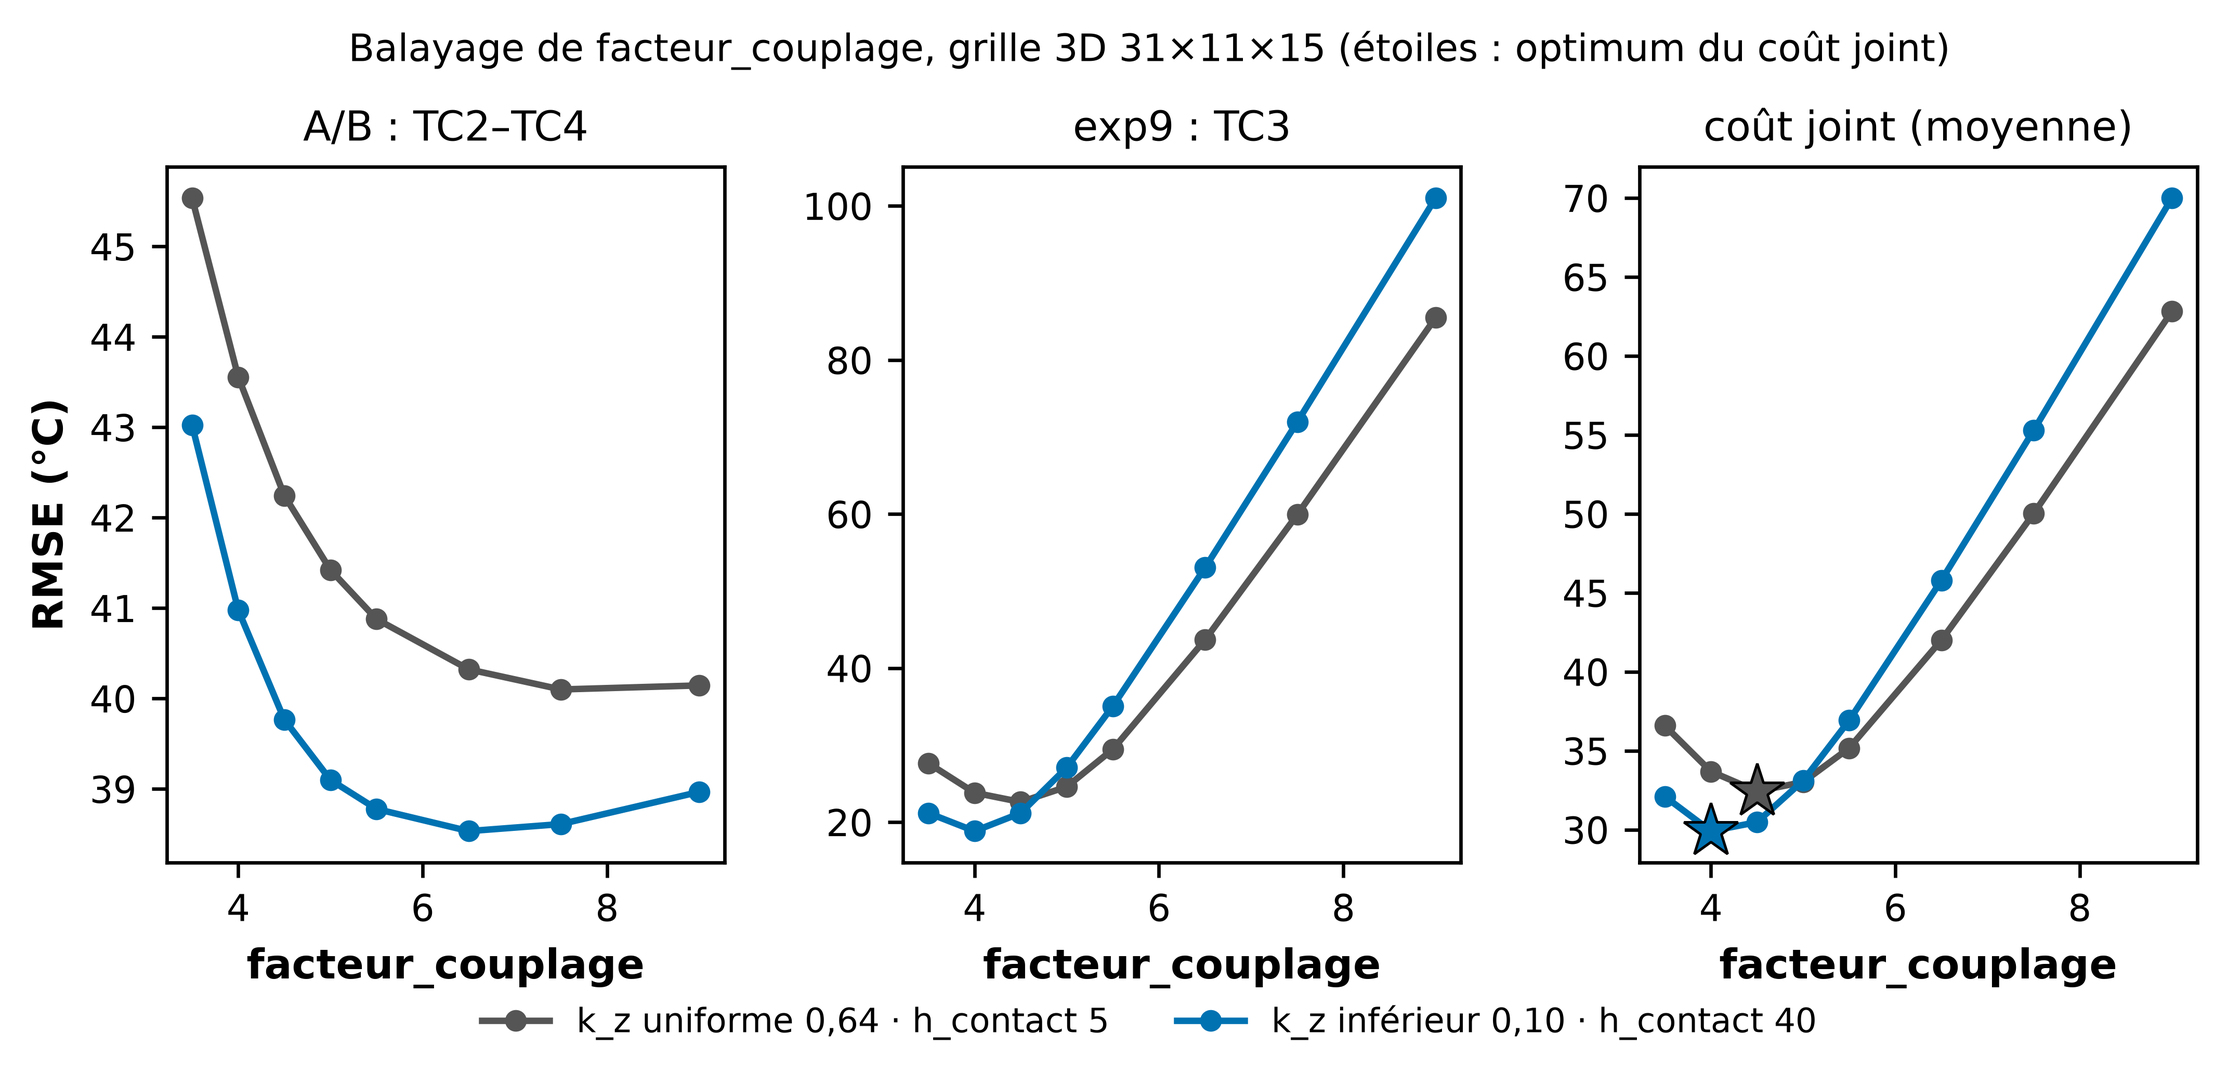
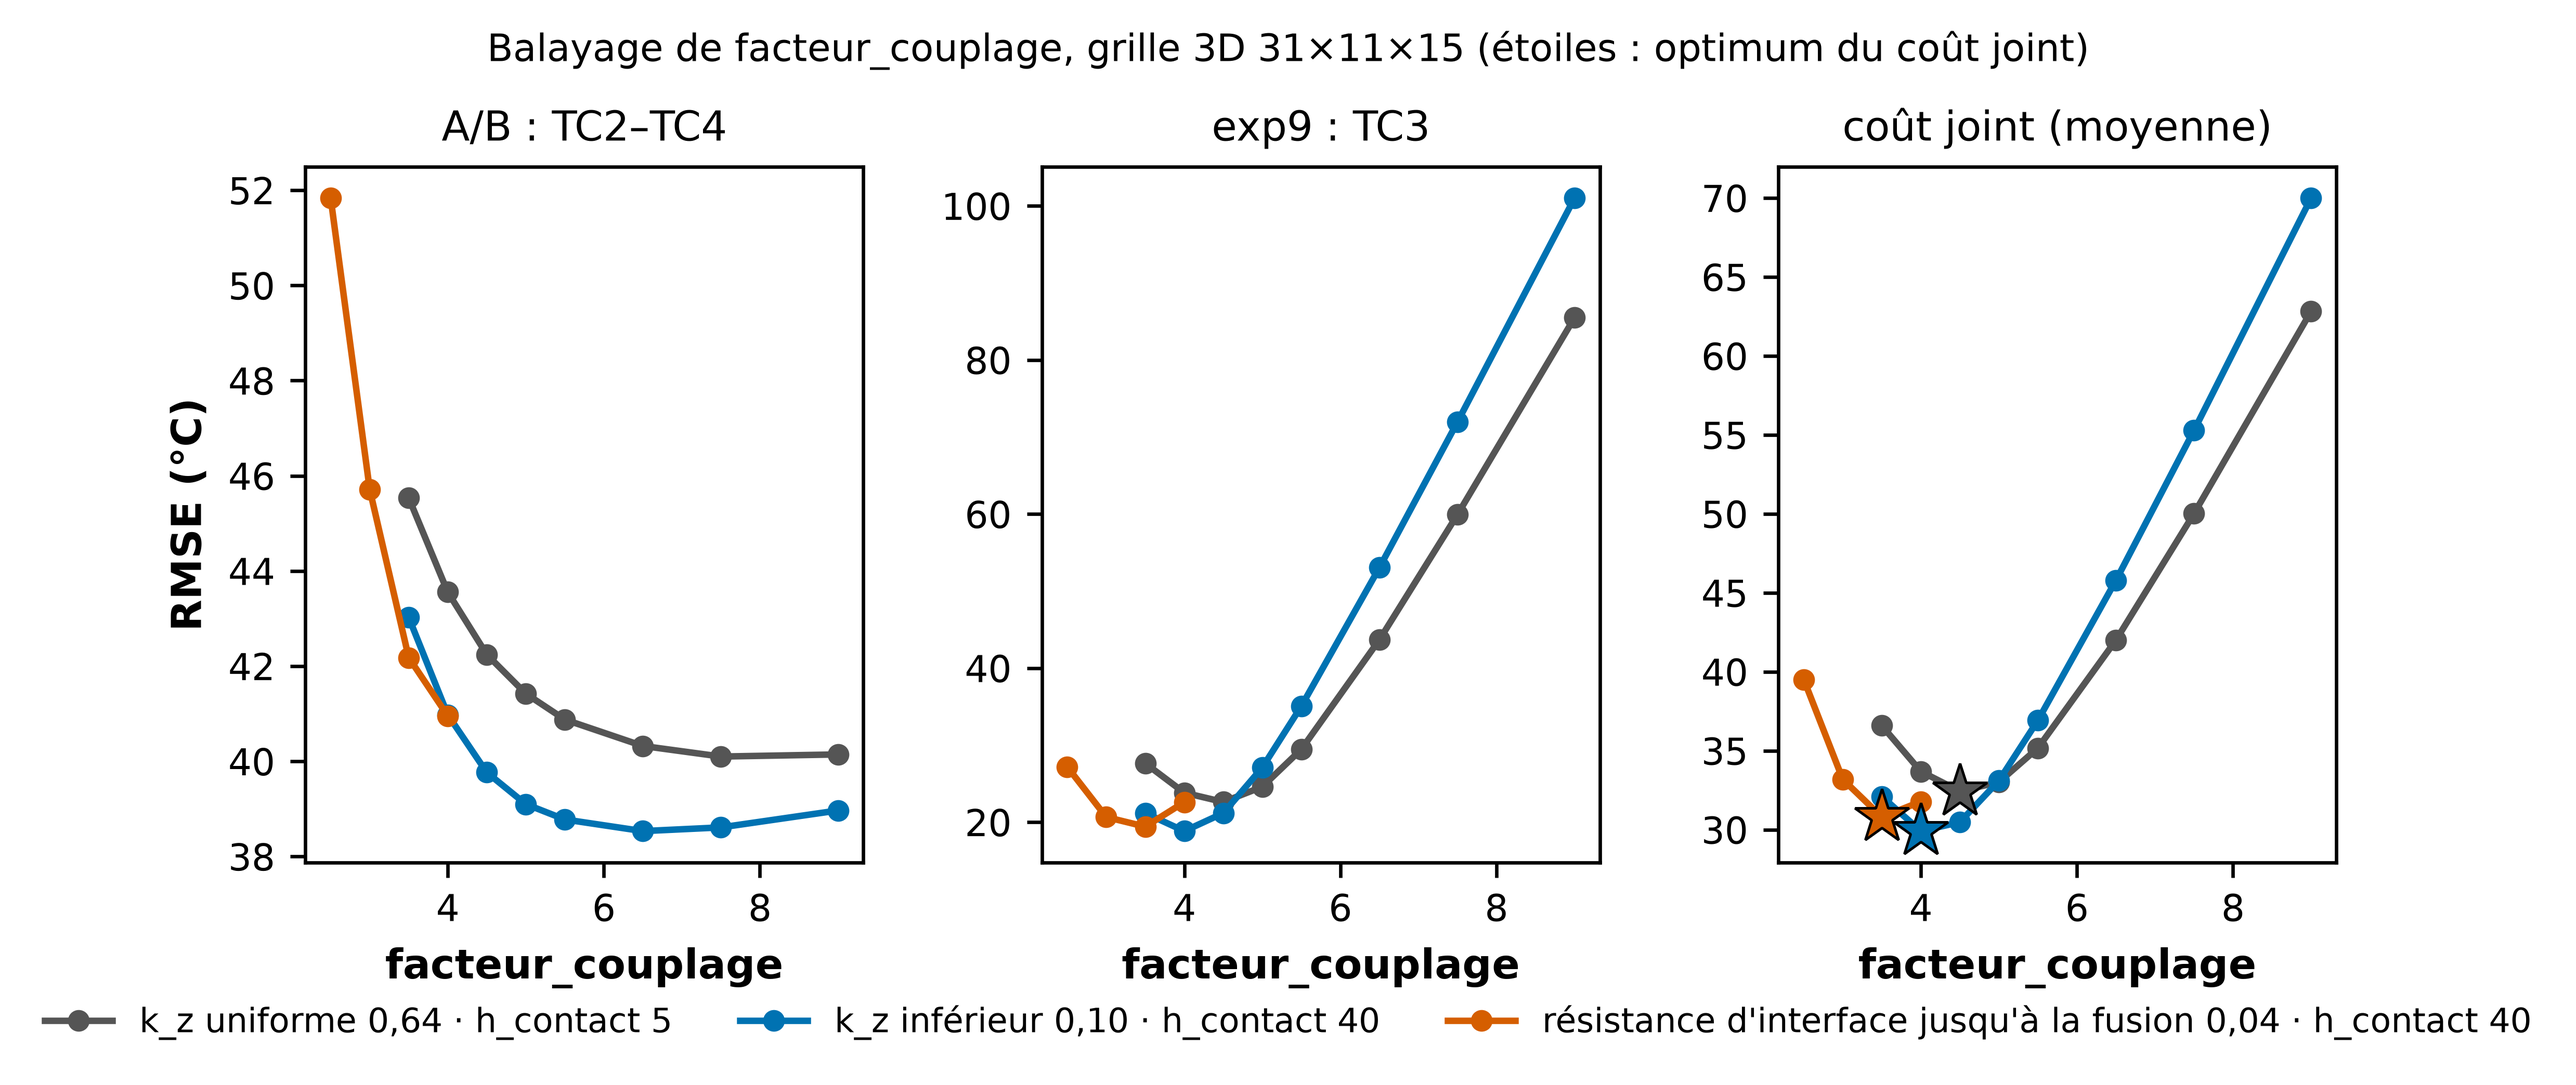
diag #74 : variantes d'epaisseur (resistance d'interface jusqu'a la fusion, Cp(T) Hamon), convergence, compromis

diff --git a/code/scripts/diag/variantes_epaisseur.py b/code/scripts/diag/variantes_epaisseur.py
@@ -1,0 +1,89 @@
+"""Issue #74 — variantes du transport thermique dans l'épaisseur, appliquées au
+3D SANS modifier jumeau/ : chaque fonction remplace une méthode de classe pour
+la durée du processus (diagnostic uniquement).
+
+- ``appliquer_kz_inf(kz_inf)``   : k_z réduit dans tout le laminé inférieur
+  (forme effective, testée le 2026-09-29/30) ;
+- ``appliquer_rc_fusion(R, dT)`` : résistance de contact À L'INTERFACE, active
+  tant que l'interface n'a pas fondu, nulle au-dessus de Tf (rampe linéaire sur
+  Tf ± dT). Forme physique visée : deux pièces séparées (film, contacts
+  imparfaits) qui ne deviennent un seul solide qu'à la fusion. À distinguer de
+  ``r_contact_interface`` (constante, NO-GO le 2026-08-13) ;
+- ``appliquer_cp_hamon()``       : ligne de base cp(T) mesurée (Hamon 2025 /
+  thèse Saffar 2019, cf. materiaux.yaml) à la place de cp_base constant ; le pic
+  de fusion gaussien est conservé.
+
+Toutes se combinent. Le masque « sous l'interface » et l'indice de la face
+d'interface viennent de la grille et de la config, comme dans le solveur.
+"""
+from __future__ import annotations
+
+import sys
+from pathlib import Path
+
+import numpy as np
+
+R = next(p for p in Path(__file__).resolve().parents if (p / ".git").exists())
+sys.path.insert(0, str(R / "code" / "src"))
+
+from jumeau.materiaux import Config, Materiau  # noqa: E402
+from jumeau.thermique import solveur3d as s3  # noqa: E402
+
+_LAM = Config.charger(R / "code" / "config").geometrie["laminate"]
+_EP_TOT = _LAM["epaisseur_sup"] + _LAM["epaisseur_film"] + _LAM["epaisseur_inf"]
+_Z_COUPE = _LAM["epaisseur_sup"] + _LAM["epaisseur_film"] / 2
+
+# Cp(T) mesuré, ligne de base sans pic de fusion (materiaux.yaml, Hamon 2025)
+CP_T = np.array([50, 100, 150, 200, 250, 300, 350, 400, 450], dtype=float)
+CP_V = 1000.0 * np.array([0.939, 1.090, 1.224, 1.341, 1.441, 1.524, 1.590, 1.639, 1.671])
+
+
+def appliquer_kz_inf(kz_inf: float) -> None:
+    def _k_z_field(self, T):
+        z = np.linspace(0.0, _EP_TOT, T.shape[-1])
+        return np.where((z > _Z_COUPE)[None, None, :], kz_inf, float(self.k_z)) * np.ones_like(T)
+
+    Materiau.a_k_variable = lambda self: True
+    Materiau.k_z_field = _k_z_field
+    Materiau.k_plan_field = lambda self, T: np.full_like(T, float(self.k_plan))
+
+
+def appliquer_cp_hamon() -> None:
+    def _cp_apparent(self, T):
+        sig_f = self.delta_T_fusion / 2.0
+        pic = (self.chaleur_latente / (sig_f * np.sqrt(2.0 * np.pi))) * np.exp(
+            -0.5 * ((T - self.T_fusion) / sig_f) ** 2)
+        return np.interp(T, CP_T, CP_V) + pic
+
+    Materiau.cp_apparent = _cp_apparent
+
+
+def appliquer_rc_fusion(r_c: float, largeur: float = 5.0) -> None:
+    """Ajoute, sur la face entre les nœuds iz_interface et iz_interface+1, la
+    correction de flux d'une résistance r_c (m²·K/W) en série, pondérée par
+    f = 1 sous Tf − largeur, 0 au-dessus de Tf + largeur (T = max des deux
+    nœuds de la face : l'interface fond dès que son côté chaud fond)."""
+    orig = s3.SolveurThermique3D._rhs
+
+    def _rhs(self, t, Tflat, source_fn):
+        out = orig(self, t, Tflat, source_fn)
+        g, mat = self.g, self.mat
+        T = Tflat.reshape(g.nx, g.ny, g.nz)
+        iz = g.iz_interface
+        Ta, Tb = T[:, :, iz], T[:, :, iz + 1]
+        f = np.clip((mat.T_fusion + largeur - np.maximum(Ta, Tb)) / (2.0 * largeur), 0.0, 1.0)
+        if mat.a_k_variable():
+            kzf = mat.k_z_field(T)
+            kface = 0.5 * (kzf[:, :, iz] + kzf[:, :, iz + 1])
+        else:
+            kface = float(mat.k_z)
+        g0 = kface / g.dz
+        gc = 1.0 / (g.dz / kface + r_c * f)
+        dflux = (gc - g0) * (Tb - Ta)                     # W/m²
+        rc = mat.densite * mat.cp_apparent(T)
+        o = out.reshape(g.nx, g.ny, g.nz).copy()
+        o[:, :, iz] += dflux / g.dz / rc[:, :, iz]
+        o[:, :, iz + 1] -= dflux / g.dz / rc[:, :, iz + 1]
+        return o.ravel()
+
+    s3.SolveurThermique3D._rhs = _rhs

diff --git a/code/scripts/diag/diag_epaisseur_3d_reference.py b/code/scripts/diag/diag_epaisseur_3d_reference.py
@@ -95,16 +95,25 @@ def main():
     ap.add_argument("--essais", nargs="+", default=ESSAIS)
     ap.add_argument("--alpha-inf", type=float, default=1.0,
                     help="facteur sur la source Joule SOUS l'interface (laminé inf) ; 1 = inchangé")
+    ap.add_argument("--rc-fusion", type=float, default=None,
+                    help="résistance d'interface (m².K/W) active sous Tf, nulle au-dessus")
+    ap.add_argument("--cp-hamon", action="store_true", help="cp(T) mesuré (Hamon 2025)")
     ap.add_argument("--kz-inf", type=float, default=None,
                     help="k_z du laminé inférieur (W/m.K) ; défaut = k_z uniforme")
     a = ap.parse_args()
+    import variantes_epaisseur as var
+    if a.rc_fusion is not None:
+        var.appliquer_rc_fusion(a.rc_fusion)
+    if a.cp_hamon:
+        var.appliquer_cp_hamon()
 
     lignes = []
     def log(s=""):
         print(s, flush=True); lignes.append(s)
 
     log(f"3D : facteur {a.facteur}, h_contact {a.h_contact}, h_bas {a.h_bas}, "
-        f"grille {a.nx}×{a.ny}×{a.nz}, alpha_inf {a.alpha_inf}, kz_inf {a.kz_inf}")
+        f"grille {a.nx}×{a.ny}×{a.nz}, alpha_inf {a.alpha_inf}, kz_inf {a.kz_inf}, "
+        f"rc_fusion {a.rc_fusion}, cp_hamon {a.cp_hamon}")
     log(f"{'essai':22s} {'':6s} {'o/i pics':>9s} {'s/i pics':>9s} {'o/i inst':>9s} "
         f"{'s/i inst':>9s} {'T_i max':>8s}  T(pic+100 s) surf/int/opp {'durée':>6s}")
     for nom in a.essais:
@@ -134,7 +143,9 @@ def main():
         log(f"{'':22s} {'3D':6s} " + " ".join(f"{v:9.2f}" for v in rs[:4]) + f" {rs[4]:8.0f}  "
             + " / ".join(f"{v:4.0f}" for v in qs) + f"      {dt:5.0f}s")
     suffixe = (f"_alpha_inf{a.alpha_inf:g}" if a.alpha_inf != 1.0 else "") + \
-              (f"_kz_inf{a.kz_inf:g}" if a.kz_inf is not None else "")
+              (f"_kz_inf{a.kz_inf:g}" if a.kz_inf is not None else "") + \
+              (f"_rc{a.rc_fusion:g}" if a.rc_fusion is not None else "") + \
+              ("_cphamon" if a.cp_hamon else "")
     OUT = OUT_DIR / f"diag_epaisseur_3d_reference{suffixe}.log"
     OUT.write_text("\n".join(lignes) + "\n", encoding="utf-8")
 

diff --git a/code/scripts/diag/diag_valider_variante.py b/code/scripts/diag/diag_valider_variante.py
@@ -1,0 +1,35 @@
+#!/usr/bin/env python
+"""Issue #74 — valider.py (3D) avec une ou plusieurs variantes d'épaisseur
+(cf. variantes_epaisseur.py) :
+
+    python code/scripts/diag/diag_valider_variante.py [--kz-inf K] [--rc-fusion R] [--cp-hamon] -- \\
+        --modele 3D --facteur F --h-contact H --h-bas 15 --essais ...
+
+Tout ce qui suit ``--`` est transmis tel quel à valider.py.
+"""
+from __future__ import annotations
+
+import argparse
+import runpy
+import sys
+from pathlib import Path
+
+sys.path.insert(0, str(Path(__file__).resolve().parent))
+import variantes_epaisseur as var  # noqa: E402
+
+ap = argparse.ArgumentParser()
+ap.add_argument("--kz-inf", type=float, default=None)
+ap.add_argument("--rc-fusion", type=float, default=None)
+ap.add_argument("--cp-hamon", action="store_true")
+a, reste = ap.parse_known_args()
+if reste and reste[0] == "--":
+    reste = reste[1:]
+if a.kz_inf is not None:
+    var.appliquer_kz_inf(a.kz_inf)
+if a.rc_fusion is not None:
+    var.appliquer_rc_fusion(a.rc_fusion)
+if a.cp_hamon:
+    var.appliquer_cp_hamon()
+print(f"[diag_valider_variante] kz_inf={a.kz_inf} rc_fusion={a.rc_fusion} cp_hamon={a.cp_hamon}", flush=True)
+sys.argv = [str(var.R / "code" / "scripts" / "valider.py")] + reste
+runpy.run_path(sys.argv[0], run_name="__main__")

diff --git a/code/scripts/diag/diag_compromis_facteur.py b/code/scripts/diag/diag_compromis_facteur.py
@@ -37,7 +37,8 @@ AB = ["serieA_A-1", "serieA_A-3", "serieB_B-2"]
 EXP9 = ["exp9_175A_monospot", "exp9_200A_monospot", "exp9_200A_y20_monospot",
         "exp9_226A_monospot", "exp9_250A_monospot"]
 CONFIGS = {"actuel": ("k_z uniforme 0,64 · h_contact 5", GRIS_MODELE),
-           "kzinf": ("k_z inférieur 0,10 · h_contact 40", OKABE_ITO["bleu"])}
+           "kzinf": ("k_z inférieur 0,10 · h_contact 40", OKABE_ITO["bleu"]),
+           "rcfusion": ("résistance d'interface jusqu'à la fusion 0,04 · h_contact 40", OKABE_ITO["vermillon"])}
 
 
 def rmse_par_tc(chemin):
@@ -93,7 +94,7 @@ def main():
         ax.set_xlabel("facteur_couplage")
     axes[0].set_ylabel("RMSE (°C)")
     h, l = axes[0].get_legend_handles_labels()
-    fig.legend(h, l, frameon=False, fontsize=7.8, loc="lower center", ncol=2,
+    fig.legend(h, l, frameon=False, fontsize=7.8, loc="lower center", ncol=3,
                bbox_to_anchor=(0.5, -0.12))
     fig.suptitle("Balayage de facteur_couplage, grille 3D 31×11×15 (étoiles : optimum du coût joint)",
                  fontsize=8.8, y=1.03)
